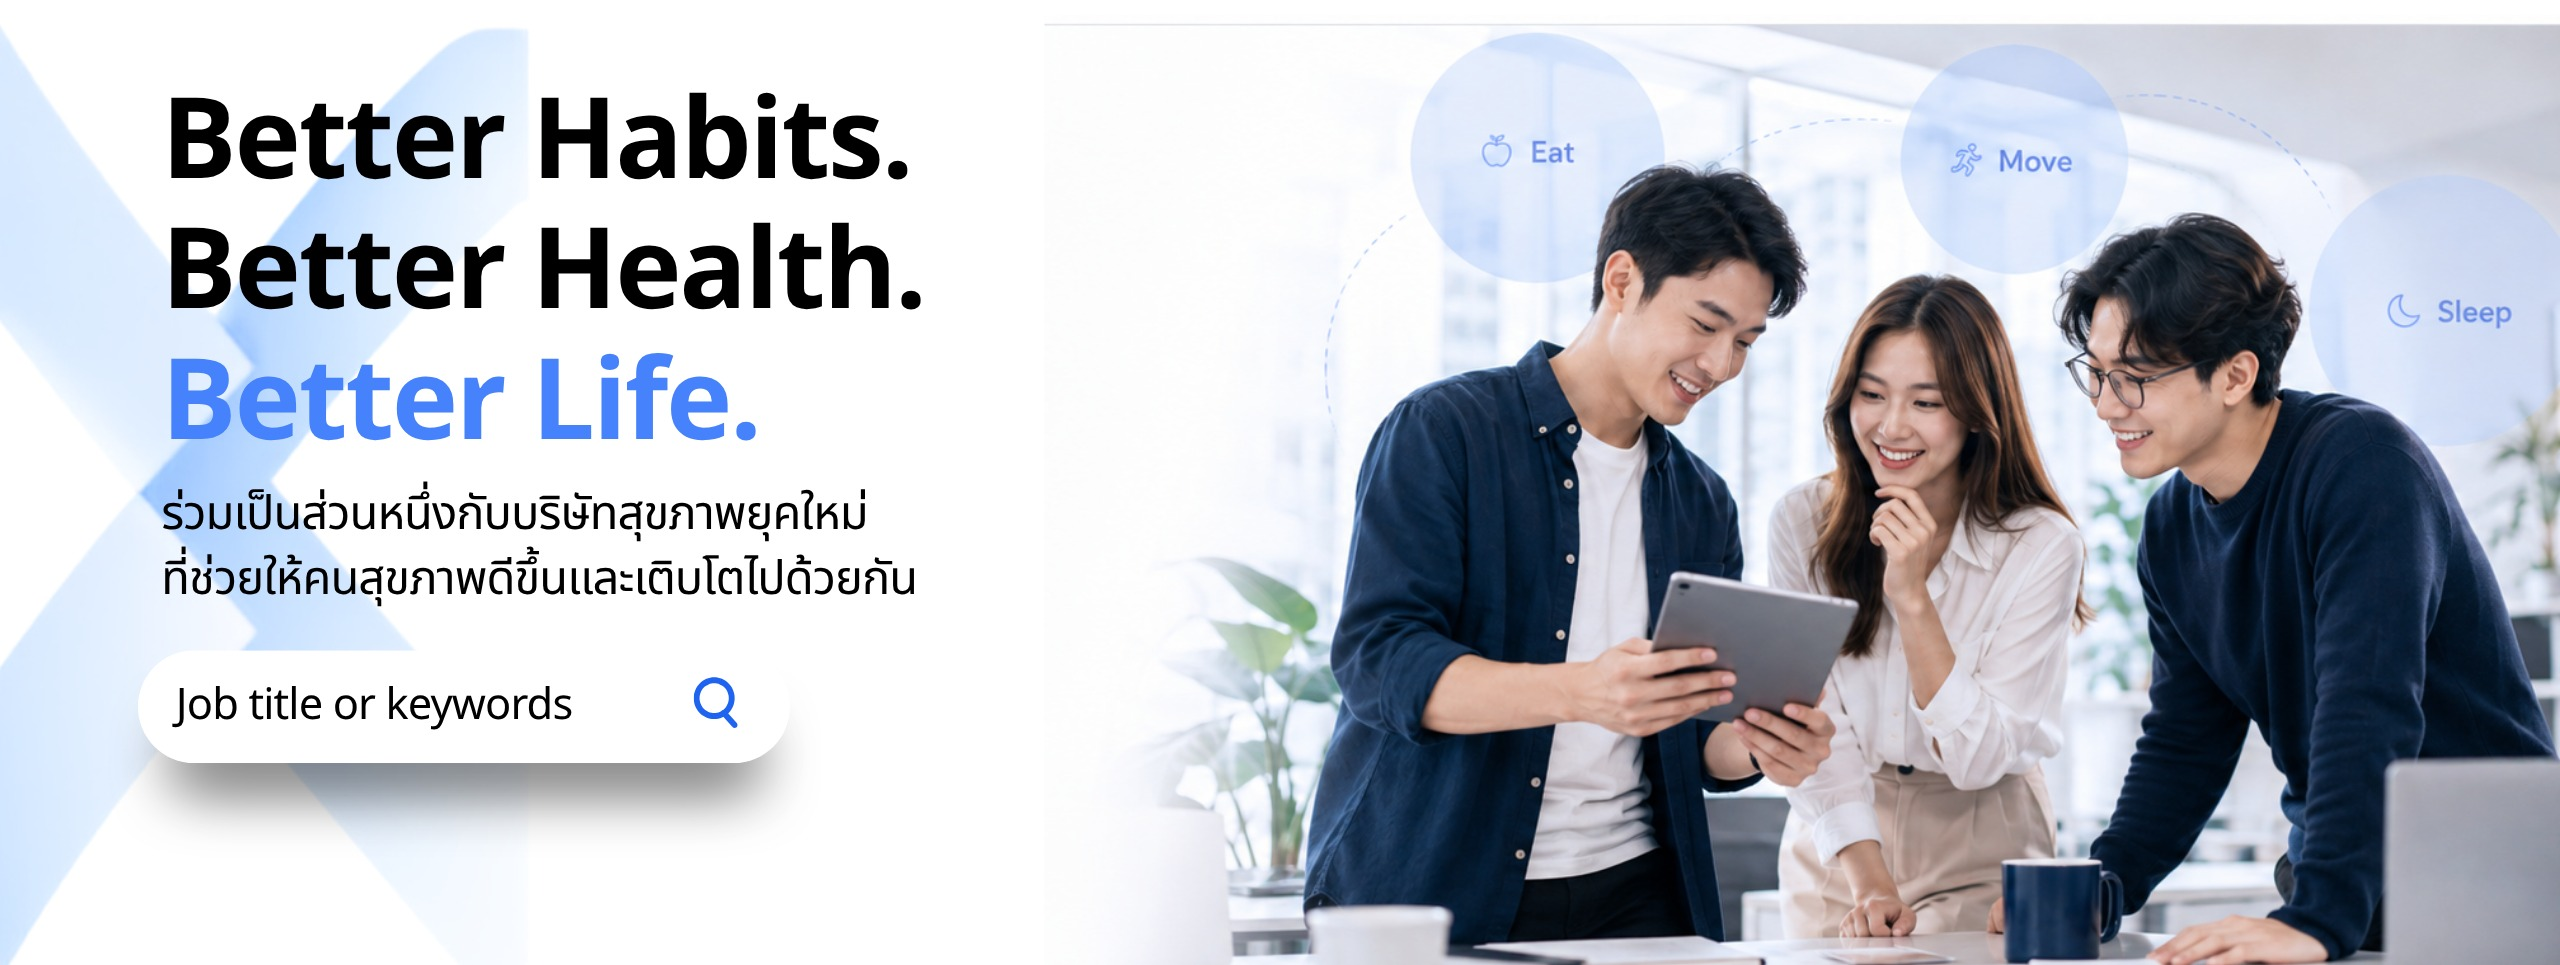
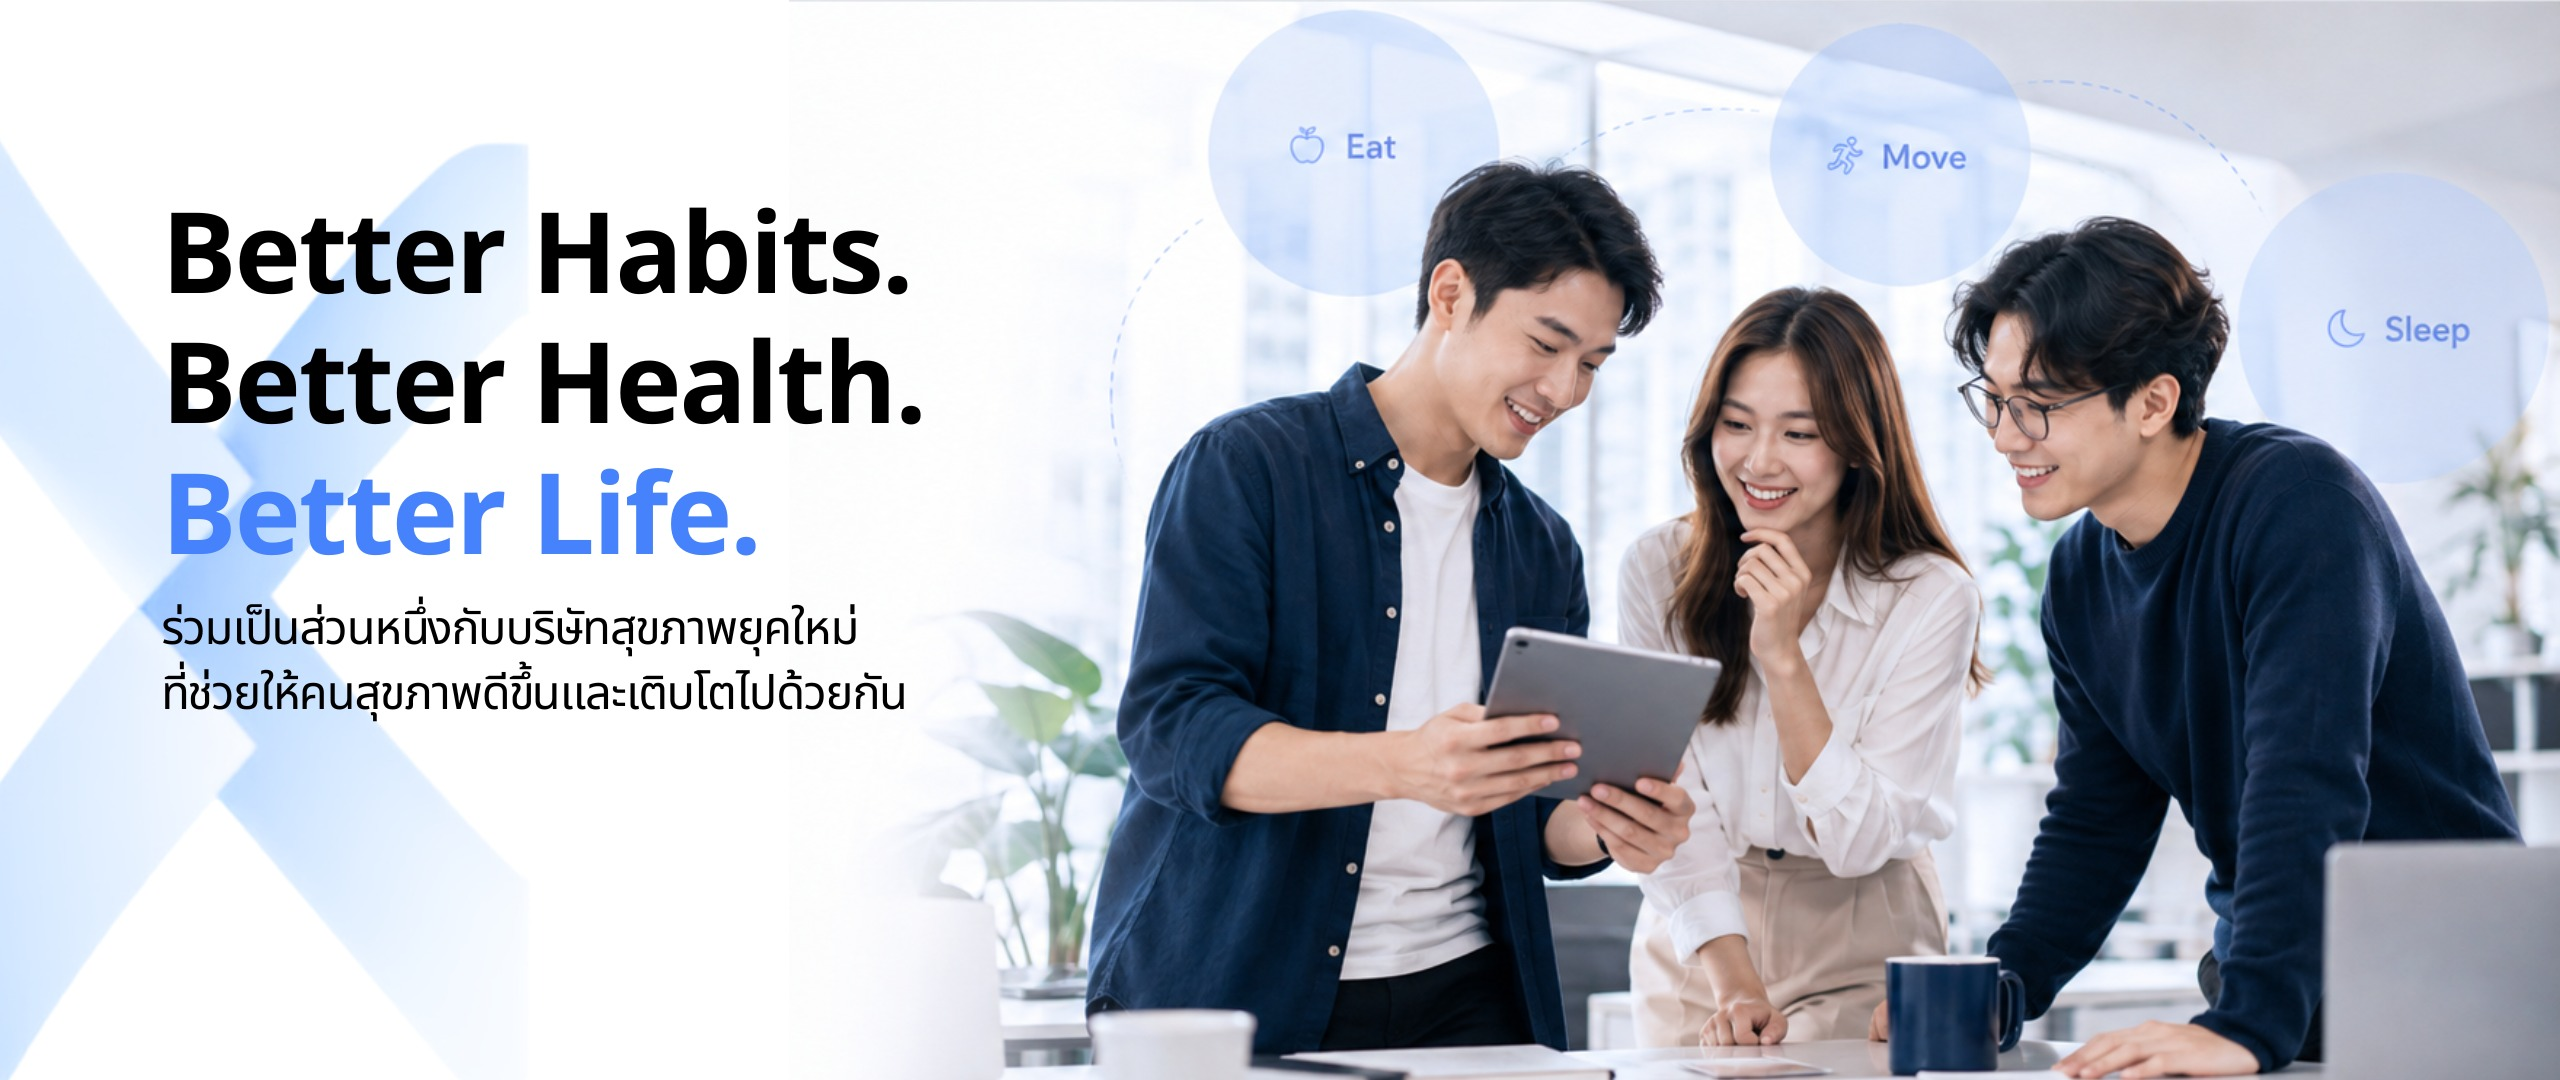
Add files via upload

diff --git a/index.html b/index.html
@@ -53,9 +53,11 @@ header{position:sticky;top:0;z-index:50;background:rgba(255,255,255,.93);backdro
 
 /* ============ HERO ============ */
 /* ===== DESKTOP HERO — original design image (nav cropped off) + HTML search box ===== */
-.dhero{position:relative;width:100%;min-height:calc(100vh - 72px)}
+.dhero{position:relative;width:100%;min-height:calc(100vh - 74px);background:#fff}
 .dhero .herowrap{position:relative;width:100%;font-size:0}
-.dhero .herobase{width:100%;height:auto;display:block}
+.dhero .herobase{width:100%;height:auto;display:block;
+  -webkit-mask-image:linear-gradient(to bottom,#000 88%,transparent 100%);
+  mask-image:linear-gradient(to bottom,#000 88%,transparent 100%)}
 .hsearchbox{position:absolute;z-index:3;display:flex;align-items:center;
   background:#fff;border:1.5px solid var(--line);border-radius:999px;
   padding:0 0.9% 0 2.6%;box-shadow:0 20px 44px -26px rgba(20,60,130,.5)}
@@ -199,7 +201,7 @@ footer a{color:#9fc0ff}
 <section class="dhero">
   <div class="herowrap">
     <img class="herobase" src="heroimg_body.jpg" alt="Better Habits. Better Health. Better Life.">
-    <form class="hsearchbox" action="#jobs" onsubmit="return false" style="left:5.6%;top:65.2%;width:27.5%;height:14.6%">
+    <form class="hsearchbox" action="#jobs" onsubmit="return false" style="left:6%;top:70.2%;width:26%;height:11%">
       <input type="text" placeholder="Job title or keywords" aria-label="Search jobs">
       <button type="submit" aria-label="search">
         <svg viewBox="0 0 24 24" fill="none" stroke="#fff" stroke-width="2.4" stroke-linecap="round"><circle cx="11" cy="11" r="7"></circle><line x1="21" y1="21" x2="16.5" y2="16.5"></line></svg>

diff --git a/operations.html b/operations.html
@@ -152,7 +152,7 @@
     /* group icon shows the active state while collapsed */
     .side:not(.expanded) .nav .group.has-active>.ghead{background:var(--brand-tint);color:var(--brand)}
     .side:not(.expanded) .nav .group.has-active>.ghead svg.i{color:var(--brand)}
-    .side .nav{overflow:visible}
+    .side .nav{overflow-y:auto;overflow-x:hidden}
   }
 
   @media(max-width:900px){
